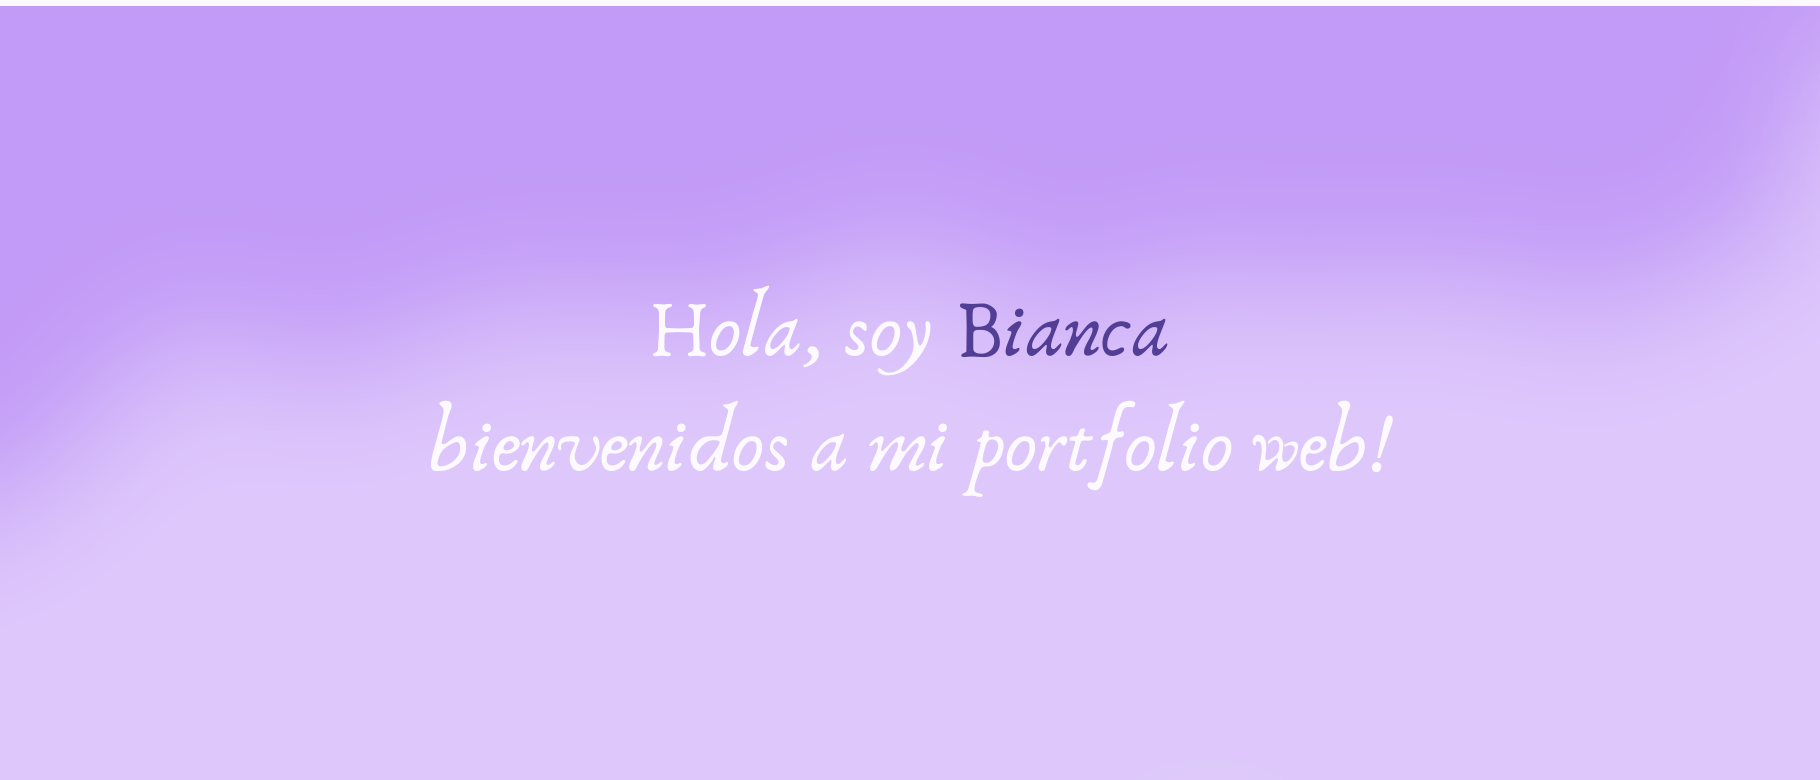
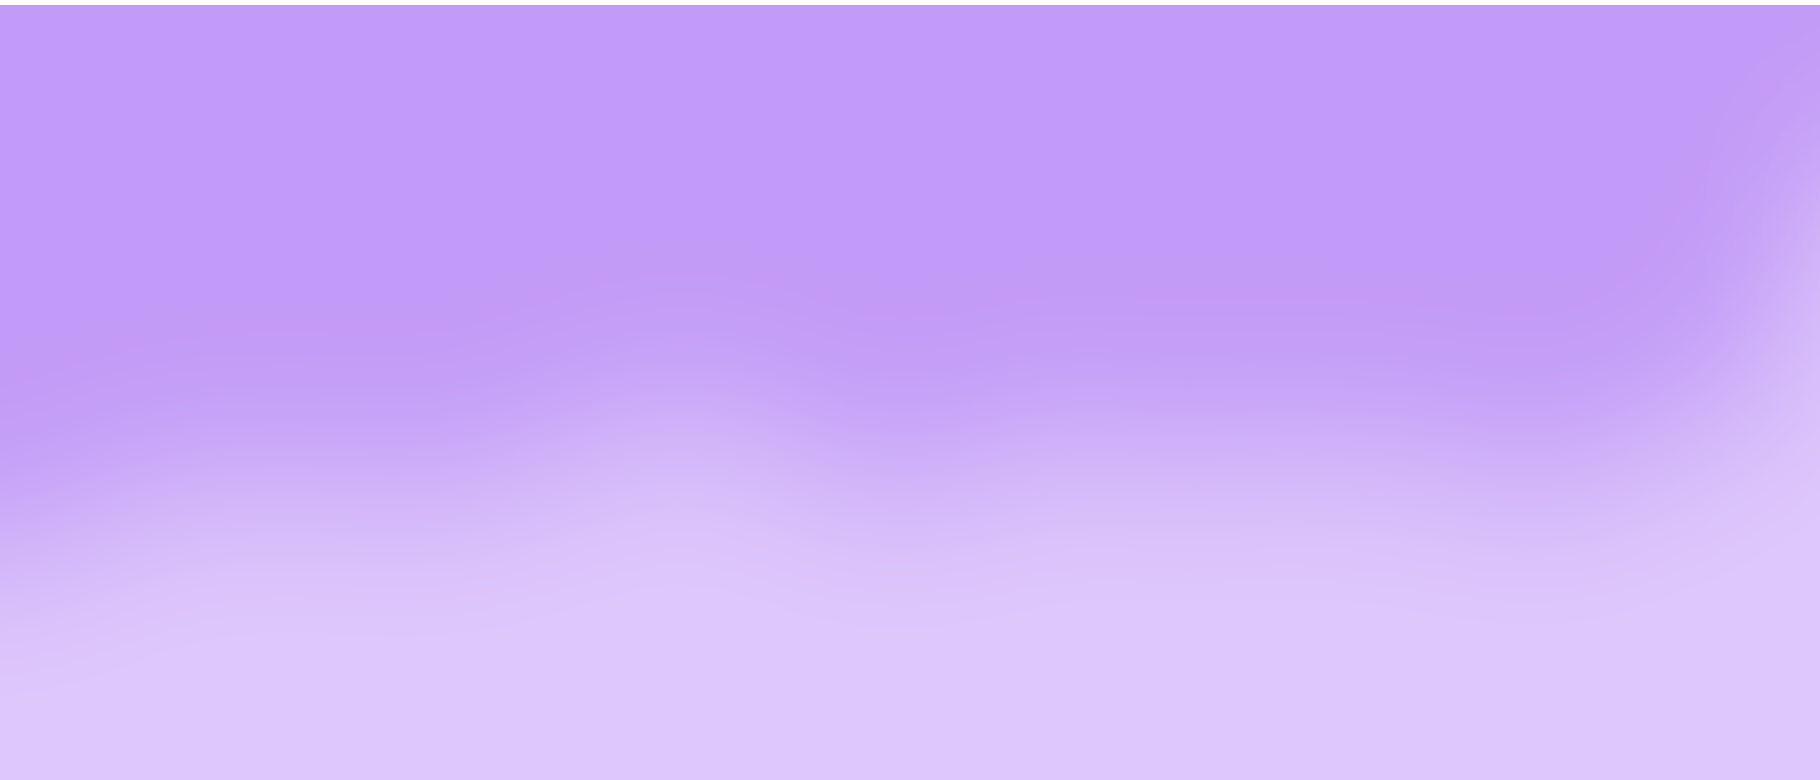
new font

Changed region(s): [[0.0615, 0.3385, 0.9538, 0.6462]]

diff --git a/Portfolio/src/app/components/sobre-mi/sobre-mi.component.spec.ts b/Portfolio/src/app/components/sobre-mi/sobre-mi.component.spec.ts
@@ -1,0 +1,23 @@
+import { ComponentFixture, TestBed } from '@angular/core/testing';
+
+import { SobreMiComponent } from './sobre-mi.component';
+
+describe('SobreMiComponent', () => {
+  let component: SobreMiComponent;
+  let fixture: ComponentFixture<SobreMiComponent>;
+
+  beforeEach(async () => {
+    await TestBed.configureTestingModule({
+      declarations: [ SobreMiComponent ]
+    })
+    .compileComponents();
+
+    fixture = TestBed.createComponent(SobreMiComponent);
+    component = fixture.componentInstance;
+    fixture.detectChanges();
+  });
+
+  it('should create', () => {
+    expect(component).toBeTruthy();
+  });
+});

diff --git a/Portfolio/src/app/components/redes/redes.component.html b/Portfolio/src/app/components/redes/redes.component.html
@@ -1,6 +1,6 @@
 <div>
-    <a href=""><img src="../../../assets/linkedin.png" alt=""></a>
-    <a href=""><img src="../../../assets/github.png" alt=""></a>
-    <a href=""><img src="../../../assets/instagram.png" alt=""></a>
-    <a href=""><img src="../../../assets/twitter.png" alt=""></a>
+    <a href=""><img src="../../../assets/linkedin.png" class="img-fluid" alt=""></a>
+    <a href=""><img src="../../../assets/github.png" class="img-fluid" alt=""></a>
+    <a href=""><img src="../../../assets/instagram.png" class="img-fluid" alt=""></a>
+    <a href=""><img src="../../../assets/twitter.png" class="img-fluid" alt=""></a>
 </div>

diff --git a/Portfolio/src/app/app.module.ts b/Portfolio/src/app/app.module.ts
@@ -7,6 +7,7 @@ import { HeaderComponent } from './components/header/header.component';
 import { LogoAPComponent } from './components/logo-ap/logo-ap.component';
 import { RedesComponent } from './components/redes/redes.component';
 import { BannerComponent } from './components/banner/banner.component';
+import { SobreMiComponent } from './components/sobre-mi/sobre-mi.component';
 
 @NgModule({
   declarations: [
@@ -15,6 +16,7 @@ import { BannerComponent } from './components/banner/banner.component';
     LogoAPComponent,
     RedesComponent,
     BannerComponent,
+    SobreMiComponent,
   ],
   imports: [
     BrowserModule,

diff --git a/Portfolio/src/index.html b/Portfolio/src/index.html
@@ -6,6 +6,9 @@
   <base href="/">
   <meta name="viewport" content="width=device-width, initial-scale=1">
   <link rel="icon" type="image/x-icon" href="favicon.ico">
+  <link rel="preconnect" href="https://fonts.googleapis.com">
+  <link rel="preconnect" href="https://fonts.gstatic.com" crossorigin>
+  <link href="https://fonts.googleapis.com/css2?family=IM+Fell+DW+Pica:ital@1&display=swap" rel="stylesheet">
 </head>
 <body>
   <app-root></app-root>

diff --git a/Portfolio/src/app/components/banner/banner.component.css b/Portfolio/src/app/components/banner/banner.component.css
@@ -1,4 +1,22 @@
-img{
-    width: 100%;
-    height: 780px;
-}
+.banner{
+    position: relative;
+    }
+    
+    .banner img{
+    max-width: 100%;
+    height: auto;
+    }
+    
+    .banner p{
+        text-align: center;
+    position: absolute;
+    top: 50%;
+    left: 50%;
+    transform: translate(-50%, -50%);
+    font-size: 5rem;
+    color: white;
+    }
+
+    .saludo {
+        color: #563383;
+    }

diff --git a/Portfolio/src/app/components/banner/banner.component.html b/Portfolio/src/app/components/banner/banner.component.html
@@ -1,1 +1,4 @@
-<img src="../../../assets/banner.png" alt="">
+<div class="banner font1">
+    <img src="../../../assets/banner.png" width="100%">
+    <p><span class="saludo">Hola, soy Bianca</span><br>Bienvenidos a mi portfolio web!</p>
+</div>

diff --git a/Portfolio/src/app/components/sobre-mi/sobre-mi.component.ts b/Portfolio/src/app/components/sobre-mi/sobre-mi.component.ts
@@ -1,0 +1,10 @@
+import { Component } from '@angular/core';
+
+@Component({
+  selector: 'app-sobre-mi',
+  templateUrl: './sobre-mi.component.html',
+  styleUrls: ['./sobre-mi.component.css']
+})
+export class SobreMiComponent {
+
+}

diff --git a/Portfolio/src/styles.css b/Portfolio/src/styles.css
@@ -1,1 +1,3 @@
-/* You can add global styles to this file, and also import other style files */
+.font1{
+    font-family: 'IM Fell DW Pica', serif;
+}

diff --git a/Portfolio/src/app/components/logo-ap/logo-ap.component.html b/Portfolio/src/app/components/logo-ap/logo-ap.component.html
@@ -1,1 +1,1 @@
-<img src="../../../assets/APLogo.png" id="aplogo">
+<img src="../../../assets/APLogo.png" class="img-fluid" id="aplogo">

diff --git a/Portfolio/src/app/components/header/header.component.html b/Portfolio/src/app/components/header/header.component.html
@@ -1,5 +1,4 @@
 <div>
     <app-logo-ap></app-logo-ap>
     <app-redes></app-redes>
-    <app-banner></app-banner>
 </div>

diff --git a/Portfolio/src/app/app.component.html b/Portfolio/src/app/app.component.html
@@ -1,1 +1,3 @@
 <app-header></app-header>
+<app-banner></app-banner>
+<app-sobre-mi></app-sobre-mi>

diff --git a/Portfolio/src/app/components/sobre-mi/sobre-mi.component.html b/Portfolio/src/app/components/sobre-mi/sobre-mi.component.html
@@ -1,0 +1,6 @@
+<div class="row">
+    <div>
+        
+    </div>
+</div>
+
